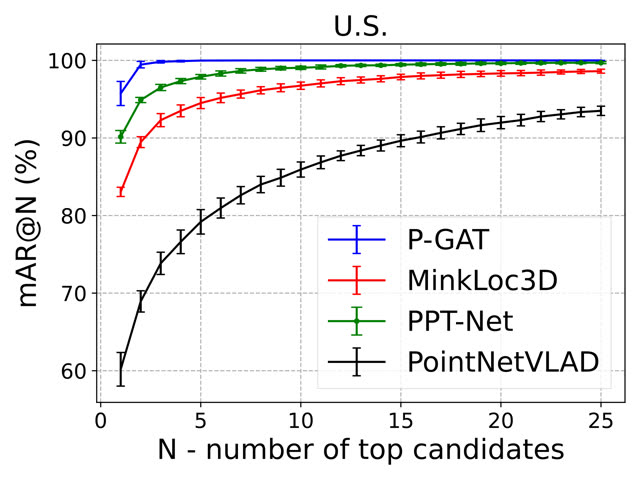
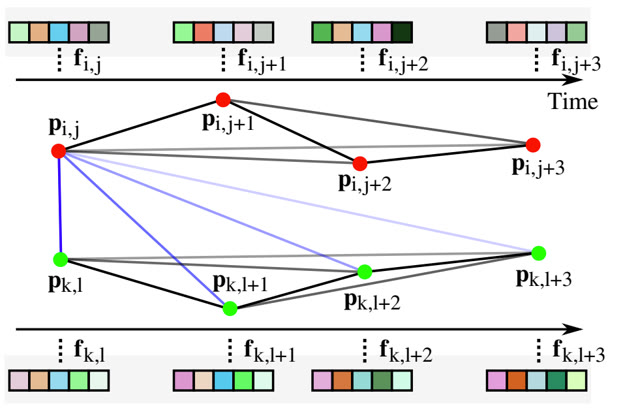
Many updates

diff --git a/src/styles/global.css b/src/styles/global.css
@@ -6,12 +6,12 @@
 /* so re-theming means editing this block rather than hunting classes.    */
 /* ---------------------------------------------------------------------- */
 :root {
-  --font-serif: "Source Serif 4", "Iowan Old Style", Georgia, "Times New Roman", serif;
-  --font-sans: "Inter", "Segoe UI", system-ui, -apple-system, sans-serif;
+  --font-serif: "Libertinus Serif", "Iowan Old Style", "Palatino Linotype", Georgia, serif;
+  --font-sans: "Libertinus Sans", "Segoe UI", system-ui, -apple-system, sans-serif;
 
-  --content-max: 60rem;
+  --content-max: 62rem;
   --radius-sm: 4px;
-  --radius-md: 10px;
+  --radius-md: 8px;
 
   --step-small: 0.875rem;
   --step-eyebrow: 0.78rem;
@@ -21,44 +21,44 @@
   --step-title: clamp(2.1rem, 1.5rem + 2.4vw, 3.2rem);
 
   /* light theme (default) */
-  --color-bg: #fbfbf9;
-  --color-surface: #f1f0eb;
-  --color-ink: #1c1e21;
-  --color-muted: #5b6169;
-  --color-line: #e1dfd6;
-  --color-accent: #33469b;
+  --color-bg: #f7f4ef;
+  --color-surface: #efece4;
+  --color-ink: #000000;
+  --color-muted: #524c48;
+  --color-line: #dcd7cc;
+  --color-accent: #a6192e;
   --color-accent-ink: #ffffff;
-  --color-accent-soft: #e9ebf7;
-  --color-highlight: #9c6b12;
-  --color-highlight-soft: #f6ecd7;
+  --color-accent-soft: #faecef;
+  --color-highlight: #8c581e;
+  --color-highlight-soft: #f4e9db;
 }
 
 :root:not([data-theme="light"]) {
   @media (prefers-color-scheme: dark) {
-    --color-bg: #17181c;
-    --color-surface: #1f2126;
-    --color-ink: #f2f1ed;
-    --color-muted: #9aa0aa;
-    --color-line: #2d3036;
-    --color-accent: #8b9bf0;
-    --color-accent-ink: #14162a;
-    --color-accent-soft: #262a45;
-    --color-highlight: #e0b45c;
-    --color-highlight-soft: #3a3120;
+    --color-bg: #2b2f33;
+    --color-surface: #353a3f;
+    --color-ink: #ffffff;
+    --color-muted: #9da5b0;
+    --color-line: #41474e;
+    --color-accent: #e0475e;
+    --color-accent-ink: #ffffff;
+    --color-accent-soft: #3d1b22;
+    --color-highlight: #e2b062;
+    --color-highlight-soft: #3d3120;
   }
 }
 
 :root[data-theme="dark"] {
-  --color-bg: #17181c;
-  --color-surface: #1f2126;
-  --color-ink: #f2f1ed;
-  --color-muted: #9aa0aa;
-  --color-line: #2d3036;
-  --color-accent: #8b9bf0;
-  --color-accent-ink: #14162a;
-  --color-accent-soft: #262a45;
-  --color-highlight: #e0b45c;
-  --color-highlight-soft: #3a3120;
+  --color-bg: #2b2f33;
+  --color-surface: #353a3f;
+  --color-ink: #ffffff;
+  --color-muted: #9da5b0;
+  --color-line: #41474e;
+  --color-accent: #e0475e;
+  --color-accent-ink: #ffffff;
+  --color-accent-soft: #3d1b22;
+  --color-highlight: #e2b062;
+  --color-highlight-soft: #3d3120;
 }
 
 /* ---------------------------------------------------------------------- */
@@ -326,24 +326,18 @@ p:last-child {
 }
 
 .hero-photo {
-  width: 9rem;
-  height: 9rem;
+  width: 16rem;
   border-radius: var(--radius-md);
   overflow: hidden;
+  border: 1px solid var(--color-line);
 }
 
-.avatar {
+.hero-photo img {
+  /* Full portrait, no cropping — width drives the size, height follows
+     the image's own aspect ratio. */
+  display: block;
   width: 100%;
-  height: 100%;
-  display: grid;
-  place-items: center;
-  background: var(--color-accent-soft);
-  color: var(--color-accent);
-  border: 1px solid var(--color-line);
-  border-radius: var(--radius-md);
-  font-family: var(--font-sans);
-  font-weight: 700;
-  font-size: 2.4rem;
+  height: auto;
 }
 
 @media (max-width: 640px) {
@@ -352,8 +346,7 @@ p:last-child {
   }
   .hero-photo {
     order: -1;
-    width: 5rem;
-    height: 5rem;
+    width: 10rem;
   }
 }
 
@@ -377,12 +370,13 @@ p:last-child {
   border-radius: 999px;
   border: 1px solid var(--color-line);
   color: var(--color-muted);
-  font-family: var(--font-sans);
-  font-size: 0.72rem;
-  font-weight: 700;
-  letter-spacing: 0.02em;
   text-decoration: none;
   background: var(--color-surface);
+}
+
+.social-badge svg {
+  width: 1.05rem;
+  height: 1.05rem;
 }
 
 .social-badge:hover {
@@ -585,6 +579,11 @@ p:last-child {
 
 .teach-item p {
   margin-top: 0.5rem;
+}
+
+.teach-item p a {
+  color: var(--color-accent);
+  text-decoration-color: color-mix(in srgb, var(--color-accent) 40%, transparent);
 }
 
 /* ---------------------------------------------------------------------- */

diff --git a/src/data/site.ts b/src/data/site.ts
@@ -2,11 +2,12 @@
 // Core site identity & configuration.
 // ---------------------------------------------------------------------------
 
+import type { IconName } from "../components/Icon.astro";
+
 export interface SocialLink {
   /** Short label shown in the UI, e.g. "GitHub" */
   label: string;
-  /** 2-3 letter monogram shown in the badge, e.g. "GH" */
-  monogram: string;
+  icon: IconName;
   href: string;
 }
 
@@ -25,16 +26,16 @@ export const site = {
   /** Bio paragraphs shown on the homepage. Plain text or simple HTML strings. */
   bio: [
     "I am a Post-Doctoral Research Associate in Robotic Perception at the Australian Centre for Robotics, The University of Sydney. My research focuses on 3D scene understanding for robots operating in unstructured, natural environments &mdash; including LiDAR and visual place recognition, cross-modal re-localisation, and adapting learned perception models to novel domains.",
-    "I completed my PhD at Queensland University of Technology in a joint program with CSIRO&rsquo;s Data61, supervised by Peyman Moghadam, Clinton Fookes and Sridha Sridharan, and received the 2025 QUT Outstanding Doctoral Thesis Award for my thesis, <em>Bridging Domain Gaps in 3D Scene Understanding</em>. In 2024 I was a Research Engineer at the Smart Robotics Lab, Technical University of Munich, developing perception pipelines for autonomous drones as part of the EU Horizon project DigiForest.",
+    'I completed my PhD at Queensland University of Technology in a joint program with CSIRO&rsquo;s Data61, supervised by <a href="https://people.csiro.au/m/p/peyman-moghadam" target="_blank" rel="noopener noreferrer">Peyman Moghadam</a>, <a href="https://www.qut.edu.au/about/our-people/academic-profiles/c.fookes" target="_blank" rel="noopener noreferrer">Clinton Fookes</a> and <a href="https://www.qut.edu.au/about/our-people/academic-profiles/s.sridharan" target="_blank" rel="noopener noreferrer">Sridha Sridharan</a>, and received the 2025 QUT Outstanding Doctoral Thesis Award for my thesis, <em>Bridging Domain Gaps in 3D Scene Understanding</em>. In 2024 I was a Research Engineer at the <a href="https://srl.cit.tum.de/" target="_blank" rel="noopener noreferrer">Smart Robotics Lab</a>, Technical University of Munich, developing perception pipelines for autonomous drones as part of the EU Horizon project DigiForest.',
   ],
 
   // NOTE: I couldn't confidently verify a personal GitHub account, so it's
   // left out for now — add one below once you give me the handle, e.g.:
-  // { label: "GitHub", monogram: "GH", href: "https://github.com/yourhandle" }
+  // { label: "GitHub", icon: "github", href: "https://github.com/yourhandle" }
   socials: [
-    { label: "Google Scholar", monogram: "GS", href: "https://scholar.google.com/citations?user=RxbGr2EAAAAJ&hl=en" },
-    { label: "LinkedIn", monogram: "in", href: "https://au.linkedin.com/in/joshua-knights-b577431a3" },
-    { label: "Email", monogram: "@", href: "mailto:joshuab.knights@gmail.com" },
+    { label: "Google Scholar", icon: "scholar", href: "https://scholar.google.com/citations?user=RxbGr2EAAAAJ&hl=en" },
+    { label: "LinkedIn", icon: "linkedin", href: "https://au.linkedin.com/in/joshua-knights-b577431a3" },
+    { label: "Email", icon: "email", href: "mailto:joshuab.knights@gmail.com" },
   ] satisfies SocialLink[],
 
   /**

diff --git a/src/data/news.ts b/src/data/news.ts
@@ -20,23 +20,23 @@ export const news: NewsItem[] = [
   },
   {
     label: "2026",
+    html: "Awarded the 2025 QUT Outstanding Doctoral Thesis Award for my PhD thesis, &ldquo;Bridging Domain Gaps in 3D Scene Understanding.&rdquo;",
+  },
+  {
+    label: "2026",
     html: 'Our paper <a href="https://csiro-robotics.github.io/WildCross" target="_blank" rel="noopener noreferrer">WildCross</a>, a benchmark for place recognition and metric depth estimation in natural environments, was accepted to <strong>ICRA 2026</strong>.',
   },
   {
     label: "2025",
-    html: "Awarded the 2025 QUT Outstanding Doctoral Thesis Award for my PhD thesis, &ldquo;Bridging Domain Gaps in 3D Scene Understanding.&rdquo;",
+    html: 'Completed my PhD at QUT, a joint program with CSIRO&rsquo;s Data61, supervised by <a href="https://people.csiro.au/m/p/peyman-moghadam" target="_blank" rel="noopener noreferrer">Peyman Moghadam</a>, <a href="https://www.qut.edu.au/about/our-people/academic-profiles/c.fookes" target="_blank" rel="noopener noreferrer">Clinton Fookes</a> and <a href="https://www.qut.edu.au/about/our-people/academic-profiles/s.sridharan" target="_blank" rel="noopener noreferrer">Sridha Sridharan</a>.',
   },
   {
     label: "2025",
-    html: "Completed my PhD at QUT, a joint program with CSIRO&rsquo;s Data61, supervised by Peyman Moghadam, Clinton Fookes and Sridha Sridharan.",
-  },
-  {
-    label: "2025",
-    html: 'Our paper <a href="https://arxiv.org/abs/2409.10247" target="_blank" rel="noopener noreferrer">SOLVR</a>, a submap-oriented LiDAR-visual re-localisation pipeline developed at the Smart Robotics Lab, TU Munich, was accepted to <strong>ICRA 2025</strong>.',
+    html: 'Our paper <a href="https://arxiv.org/abs/2409.10247" target="_blank" rel="noopener noreferrer">SOLVR</a>, a submap-oriented LiDAR-visual re-localisation pipeline developed at the <a href="https://srl.cit.tum.de/" target="_blank" rel="noopener noreferrer">Smart Robotics Lab</a>, TU Munich, was accepted to <strong>ICRA 2025</strong>.',
   },
   {
     label: "2024",
-    html: "Worked as a Research Engineer at the Smart Robotics Lab, Technical University of Munich, developing computer vision pipelines for autonomous drones as part of the EU Horizon project DigiForest.",
+    html: 'Worked as a Research Engineer at the <a href="https://srl.cit.tum.de/" target="_blank" rel="noopener noreferrer">Smart Robotics Lab</a>, Technical University of Munich, developing computer vision pipelines for autonomous drones as part of the EU Horizon project DigiForest.',
   },
   {
     label: "2024",

diff --git a/src/data/publications.ts b/src/data/publications.ts
@@ -55,6 +55,7 @@ export const publications: Publication[] = [
     featured: true,
     links: [
       { label: "ArXiv", href: "https://arxiv.org/abs/2603.01475"},
+      { label: "Code", href: "https://github.com/csiro-robotics/WildCross"},
       { label: "Project Page", href: "https://csiro-robotics.github.io/WildCross" },
     ],
     image: "/images/publications/wildcross.gif",
@@ -106,6 +107,7 @@ export const publications: Publication[] = [
     authors: [{ name: "Joshua Knights", self: true }, { name: "et al." }],
     venue: "IEEE Robotics and Automation Letters (RA-L)",
     year: 2024,
+    featured: true,
     // NOTE: dropped the "Code" link that was here — github.com/csiro-robotics/GeoAdapt
     // 404s and isn't in the csiro-robotics org's repo list, so it looks like the
     // code either isn't public or lives somewhere else. Let me know the right URL.
@@ -165,7 +167,9 @@ export const publications: Publication[] = [
     authors: [{ name: "D. N. P. Oliveira" }, { name: "Joshua Knights", self: true }, { name: "et al." }],
     venue: "IEEE/RSJ International Conference on Intelligent Robots and Systems (IROS)",
     year: 2025,
-    links: [{ label: "arXiv", href: "https://arxiv.org/abs/2503.03599" }],
+    links: [
+      { label: "arXiv", href: "https://arxiv.org/abs/2503.03599" },
+      { label: "Code", href: "https://github.com/ethz-mrl/regrace/tree/main"}],
     image: "/images/publications/regrace.jpg",
   },
   {

diff --git a/src/data/mentoring.ts b/src/data/mentoring.ts
@@ -24,7 +24,7 @@ export const mentoring: MentoringEntry[] = [
     role: "Masters Thesis Co-Supervisor",
     institution: "Technical University of Munich",
     description:
-      "Provided supervision for the research component of her Masters of Engineering degree, which culminated in a publication at ICRA 2025 (REGRACE).",
+      'Provided supervision for the research component of her Masters of Engineering degree, which culminated in a publication at ICRA 2025 (<a href="/publications#regrace-a-robust-and-efficient-graph-based-re-localization-algorithm-using-consistency-evaluation">REGRACE: A Robust and Efficient Graph-based Re-localization Algorithm using Consistency Evaluation</a>).',
   },
   {
     period: "2022",
@@ -32,6 +32,6 @@ export const mentoring: MentoringEntry[] = [
     role: "Honors Thesis Co-Supervisor",
     institution: "Data61, CSIRO",
     description:
-      "Provided supervision and assistance for her Honours research placement, which culminated in a publication at IROS 2023 (Uncertainty-Aware Lidar Place Recognition in Novel Environments).",
+      'Provided supervision and assistance for her Honours research placement, which culminated in a publication at IROS 2023 (<a href="/publications#uncertainty-aware-lidar-place-recognition-in-novel-environments">Uncertainty-Aware Lidar Place Recognition in Novel Environments</a>).',
   },
 ];
